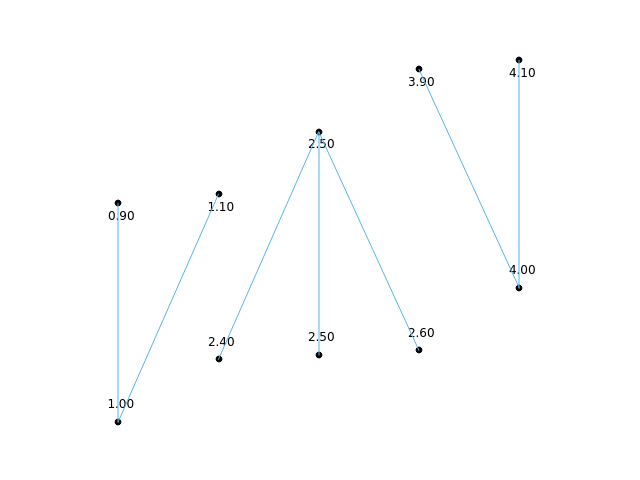
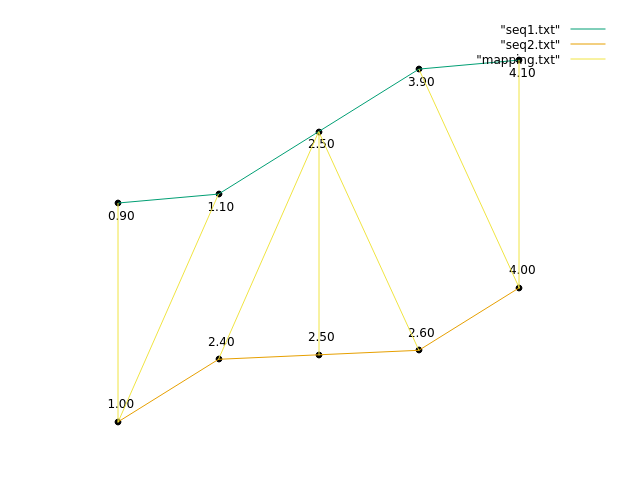
unequal mapping and res func

diff --git a/tests/floating_tests.cpp b/tests/floating_tests.cpp
@@ -1,3 +1,5 @@
+#include <iostream>
+#include <fstream>
 #include <vector>
 
 #include "table.hpp"
@@ -6,25 +8,126 @@
 #include "test_runner.h"
 #include "profile.h"
 
-namespace {
-
+using mapping_t = lcs::Mapper::mapping_t;
+using sequence_t = lcs::FloatingTable::sequence_t;
 using Sequence = lcs::FloatingTable::Sequence;
 
-void testSimple() {
-    {
-        Sequence S1 = {0.9, 1.1, 2.5, 3.9, 4.1};
-        Sequence S2 = {1, 2.4, 2.5, 2.6, 4};
-        lcs::Mapper mp(S1, S2);
-        std::cout << mp.table() << std::endl;
-        std::cout << "Metric: " << mp.mapping() << std::endl;
-        std::cout << "Metric: " << mp.res_metric() << std::endl;
-        ASSERT(mp.res_metric() < 0.01);
+struct Point {
+    sequence_t x, y;
+    friend std::ostream& operator<<(std::ostream& os, const Point& p) {
+        return os << p.x << ' ' << p.y;
     }
+};
+
+namespace {
+
+inline std::vector<Point> readFile(const std::string& filename) {
+    std::ifstream file(filename);
+    if (!file)
+        throw std::runtime_error("Cannot open file " + filename);
+    std::vector<Point> points;
+    sequence_t x, y;
+    while (file >> x >> y) {
+        points.push_back({x, y});
+    }
+    return points;
+}
+
+inline Sequence getSequence(const std::vector<Point>& points) {
+    Sequence s;
+    s.reserve(points.size());
+    for (auto&& p : points) {
+        s.emplace_back(p.y);
+    }
+    return s;
+}
+
+inline void PlotMapping(
+    std::vector<Point> s1_points,
+    std::vector<Point> s2_points,
+    const mapping_t& mapping
+) {
+    // auto comp = [](const Point& lhs, const Point& rhs) { return lhs.y < rhs.y; };
+    // auto [min_pos_s1, max_pos_s1] = std::minmax_element(s1_points.begin(), s1_points.end(), comp);
+    // auto [min_pos_s2, max_pos_s2] = std::minmax_element(s2_points.begin(), s2_points.end(), comp);
+    //  (min_pos_s1->y - max_pos_s2->y) / 2;
+    // diff *= 2;
+    sequence_t diff = 5;
+
+    std::ofstream seq1("seq1.txt");
+    for (auto&& p : s1_points) {
+        p.y += diff;
+        seq1 << p << '\n';
+    }
+
+    std::ofstream seq2("seq2.txt");
+    for (auto&& p : s2_points) {
+        seq2 << p << '\n';
+    }
+
+    std::ofstream map("mapping.txt");
+    for (auto&& [idx_s1, idx_s2] : mapping) {
+        map << s1_points[idx_s1] << '\n' << s2_points[idx_s2] << "\n      \n";
+    }
+}
+
+void doTest(
+    const std::string& first_filename,
+    const std::string& second_filename,
+    double metric_upper_boudary = 0.,
+    const mapping_t& assert_mapping = {},
+    bool do_plot = false
+) {
+    std::vector<Point> s1_points = readFile(first_filename);
+    std::vector<Point> s2_points = readFile(second_filename);
+
+    auto s1 = getSequence(s1_points);
+    auto s2 = getSequence(s2_points);
+
+    const lcs::FloatingTable table(s1, s2);
+
+    lcs::Mapper mp(table);
+    auto mapping = mp.mapping();
+
+    if (do_plot) {
+        {
+            std::ofstream mpf("map_function.txt");
+            auto values = mp.map_function();
+            for (auto&& val : values)
+                mpf << val << '\n';
+        }
+        {
+            std::ofstream map("map.txt");
+            map << table << '\n';
+            map << mapping << '\n';
+        }
+
+        PlotMapping(s1_points, s2_points, mapping);
+    }
+    if (metric_upper_boudary > 0)
+        ASSERT(mp.res_metric() < metric_upper_boudary);
+    if (!assert_mapping.empty())
+        ASSERT(assert_mapping == mapping);
+}
+
+void testTextFiles() {
+    doTest("tests/simple/seq1.txt",
+           "tests/simple/seq2.txt",
+           0.02,
+           {{0, 0}, {1, 0}, {2, 1}, {2, 2}, {2, 3}, {3, 4}, {4, 4}},
+           false);
+    doTest("tests/unequal/seq1.txt",
+           "tests/unequal/seq2.txt",
+           10,
+           {},
+           false);
+    // doTest("tests/funcs/seq1.txt", "tests/funcs/seq2.txt",
+    //         0., {}, true);
 }
 
 }  // namespace
 
 int main() {
     TestRunner tr;
-    RUN_TEST(tr, testSimple);
+    RUN_TEST(tr, testTextFiles);
 }

diff --git a/lib/LCS.cpp b/lib/LCS.cpp
@@ -29,6 +29,7 @@ Mapper::Mapper(const FloatingTable& table)
     : _table(table) {
     size_t counter = 0;
     _mapping.reserve(std::min(_table.nrows(), _table.ncolumns()));
+    _map_func.reserve(std::min(_table.nrows(), _table.ncolumns()));
     // (i + 1, j) (i + 1, j + 1), (i, j + 1)
     std::array<double, 3> next_elems;
 
@@ -38,6 +39,7 @@ Mapper::Mapper(const FloatingTable& table)
     for (size_t i = 0, j = 0;;) {
         _res_metric += _table.at(i, j);
         counter++;
+        _map_func.emplace_back(_table.at(i, j));
         _mapping.emplace_back(i, j);
         if (i + 1 < _table.nrows() && j + 1 < _table.ncolumns()) {
             next_elems = {_table.at(i+1, j), _table.at(i+1, j+1), _table.at(i, j+1)};
@@ -59,6 +61,10 @@ Mapper::Mapper(const FloatingTable& table)
         }
     }
     _res_metric /= counter;
+}
+
+std::vector<double> Mapper::map_function() const {
+    return _map_func;
 }
 
 const mapping_t& Mapper::mapping() const {

diff --git a/include/LCS.hpp b/include/LCS.hpp
@@ -22,6 +22,7 @@ class Mapper {
  public:
     explicit Mapper(const FloatingTable& table);
     const mapping_t& mapping() const;
+    std::vector<double> map_function() const;
 
  public:
     const FloatingTable& table() const;
@@ -30,6 +31,7 @@ class Mapper {
  private:
     const FloatingTable& _table;
     mapping_t _mapping = {};
+    std::vector<double> _map_func = {};
     double _res_metric = 0.;
 };
 
